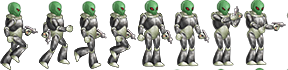
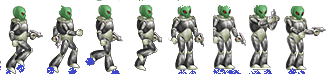
playerA

diff --git a/index.html b/index.html
@@ -29,23 +29,36 @@
             },
             scene: {
                 preload: preload,
-                create: create
+                create: create,
+                update: update
             }
         };
         var game = new Phaser.Game(config);
-
+        var player;
+        var cursors;
         function preload () {
             this.load.image('fondo','imagen/fondo.png');
             this.load.image('virus','imagen/corona.png');
+            this.load.image('halo','imagen/halo.png');
             this.load.image('ed','imagen/enemies.png');
             this.load.image('ed2','imagen/enemies.png');
+            this.load.spritesheet('alien','imagen/alienB.png',{frameHeight: 69, frameWidth: 41});
 
         }
 
         function create(){
             this.add.image(400,300,'fondo');
+            player = this.physics.add.sprite(100,450,'alien');
             var particles = this.add.particles('virus');
             var part = this.add.particles('virus');
+            var haloA = this.add.particles('halo');
+
+            var emitter3 = haloA.createEmitter({
+                speed: 130,
+                scale: { start: 0.039, end: 0.37},
+                blendMode: 'MULTIPLY'
+            });
+
             var emitter = particles.createEmitter({
                 speed: 150,
                 scale: { start: 0.009, end: 0.12},
@@ -56,19 +69,79 @@
                 scale: { start: 0.009, end: 0.11},
                 blendMode: 'MULTIPLY'
             });
+
             var bacteria = this.physics.add.image(500,200,'ed');
             var bacteria2 = this.physics.add.image(50,200,'ed2');
+            player.setBounce(0.2);
+            player.setCollideWorldBounds(true);
 
             bacteria.setVelocity(90,90);
             bacteria.setBounce(1,1);
             bacteria.setCollideWorldBounds(true);
            
-            bacteria2.setVelocity(100,100);
+            bacteria2.setVelocity(80,80);
             bacteria2.setBounce(1,1);
             bacteria2.setCollideWorldBounds(true);
 
-            emitter2.startFollow(bacteria2)
+            emitter2.startFollow(bacteria2);
             emitter.startFollow(bacteria);
+            emitter3.startFollow(player);
+           
+
+            this.anims.create({
+                key: 'left',
+                frames: this.anims.generateFrameNumbers('alien',{
+                    start: 4, 
+                    end: 0
+                }),
+                frameRate: 10,
+                repeat: -1
+            });
+            this.anims.create({
+                key: 'right',
+                frames: this.anims.generateFrameNumbers('alien',{
+                    start: 0, 
+                    end: 4
+                }),
+                frameRate: 10,
+                repeat: -1
+            });
+            this.anims.create({
+                key: 'turn',
+                frames: this.anims.generateFrameNumbers('alien',{
+                    start: 5,
+                    end: 8
+                }),
+                frameRate: 10,
+                repeat: -1
+            
+                 
+            });
+            
+
+            cursors = this.input.keyboard.createCursorKeys();
+        }
+        function update(){
+            if (cursors.left.isDown){
+                player.setVelocityX(-490);
+
+                player.anims.play('left', true);
+            }else if (cursors.right.isDown){
+                player.setVelocityX(490);
+
+               player.anims.play('right', true);
+            }
+            else
+                {
+                player.setVelocityX(0);
+        
+                player.anims.play('turn');
+        
+            }
+
+            if (cursors.up.isDown){
+                player.setVelocityY(-230);
+            }
         }
     </script>
     
